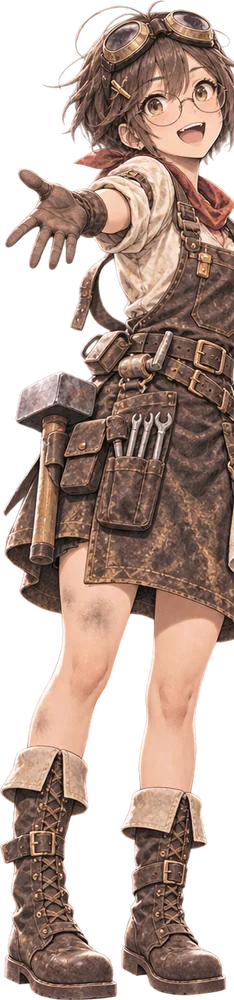
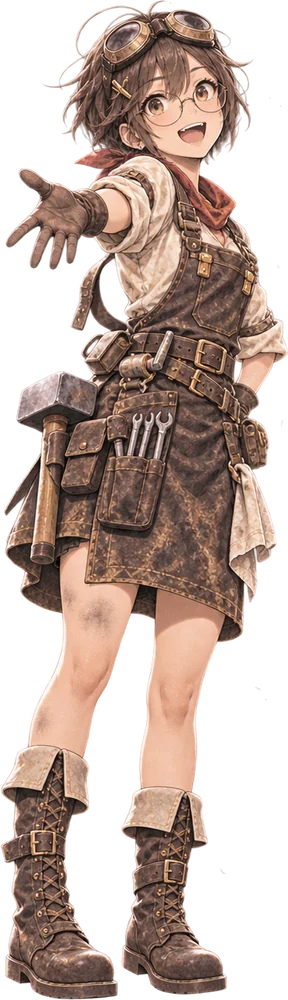
立ち絵の切り直し: 横の顔の列との境目で、腕やマントが切れていたのを直す（部品ごとに、立ち絵側と顔側から広げて分ける）
Claude-Session: https://claude.ai/code/session_01GdXuqYLq6i9zJrX2bZTVPh

diff --git a/sw.js b/sw.js
@@ -1,7 +1,7 @@
 // オフラインで遊べるようにする（2026-11-23）
 // 最初に開いたときに、音楽以外をまとめて保存。音楽は流したときに保存する
 // 版を上げると（VER）、新しいファイルに入れ替わる
-const VER = 'toh-18';
+const VER = 'toh-19';
 const CORE = ["./", "./assets/01_stone/ceil.png", "./assets/01_stone/chest.png", "./assets/01_stone/chest_gold.png", "./assets/01_stone/chest_gold_open.png", "./assets/01_stone/chest_open.png", "./assets/01_stone/deco_crack_l.png", "./assets/01_stone/deco_crack_s.png", "./assets/01_stone/deco_hole.png", "./assets/01_stone/deco_moss.png", "./assets/01_stone/deco_poster.png", "./assets/01_stone/deco_ring.png", "./assets/01_stone/deco_runes.png", "./assets/01_stone/deco_torch.png", "./assets/01_stone/deco_vine.png", "./assets/01_stone/door_bars.png", "./assets/01_stone/door_iron.png", "./assets/01_stone/door_wood.png", "./assets/01_stone/floor.png", "./assets/01_stone/stairs_down.png", "./assets/01_stone/stairs_up.png", "./assets/01_stone/wall.png", "./assets/event/ellie_a_0.webp", "./assets/event/ellie_a_1.webp", "./assets/event/ellie_a_2.webp", "./assets/event/ellie_a_3.webp", "./assets/event/ellie_b_0.webp", "./assets/event/ellie_b_1.webp", "./assets/event/ellie_b_2.webp", "./assets/event/ellie_b_3.webp", "./assets/event/fuuka_a_0.webp", "./assets/event/fuuka_a_1.webp", "./assets/event/fuuka_a_2.webp", "./assets/event/fuuka_a_3.webp", "./assets/event/fuuka_b_0.webp", "./assets/event/fuuka_b_1.webp", "./assets/event/fuuka_b_2.webp", "./assets/event/fuuka_b_3.webp", "./assets/event/fuuka_b_4.webp", "./assets/event/jenny_love_0.webp", "./assets/event/jenny_love_1.webp", "./assets/event/jenny_love_2.webp", "./assets/event/jenny_love_3.webp", "./assets/event/jenny_rain_0.webp", "./assets/event/jenny_rain_1.webp", "./assets/event/jenny_rain_2.webp", "./assets/event/jenny_rain_3.webp", "./assets/event/ria_a_0.webp", "./assets/event/ria_a_1.webp", "./assets/event/ria_a_2.webp", "./assets/event/ria_a_3.webp", "./assets/event/ria_b_0.webp", "./assets/event/ria_b_1.webp", "./assets/event/ria_b_2.webp", "./assets/event/ria_b_3.webp", "./assets/jobs/face_angry.png", "./assets/jobs/face_calm.png", "./assets/jobs/face_content.png", "./assets/jobs/face_doubt.png", "./assets/jobs/face_grin.png", "./assets/jobs/face_laugh.png", "./assets/jobs/face_lookup.png", "./assets/jobs/face_normal.png", "./assets/jobs/face_resolve.png", "./assets/jobs/face_sad.png", "./assets/jobs/face_serious.png", "./assets/jobs/face_shock.png", "./assets/jobs/face_shout.png", "./assets/jobs/face_sigh.png", "./assets/jobs/face_sly.png", "./assets/jobs/face_smile.png", "./assets/jobs/face_smug.png", "./assets/jobs/face_tired.png", "./assets/jobs/face_wince.png", "./assets/jobs/face_worry.png", "./assets/jobs/job_archer.webp", "./assets/jobs/job_archmage.webp", "./assets/jobs/job_assassin.webp", "./assets/jobs/job_bandit.webp", "./assets/jobs/job_berserker.webp", "./assets/jobs/job_blackknight.webp", "./assets/jobs/job_cleric.webp", "./assets/jobs/job_hunter.webp", "./assets/jobs/job_kengo.webp", "./assets/jobs/job_kensei.webp", "./assets/jobs/job_knight.webp", "./assets/jobs/job_magearcher.webp", "./assets/jobs/job_marauder.webp", "./assets/jobs/job_mastersmith.webp", "./assets/jobs/job_monk.webp", "./assets/jobs/job_ninja.webp", "./assets/jobs/job_paladin.webp", "./assets/jobs/job_sage.webp", "./assets/jobs/job_samurai.webp", "./assets/jobs/job_smith.webp", "./assets/jobs/job_spellsword.webp", "./assets/jobs/job_swordsman.webp", "./assets/jobs/job_thief.webp", "./assets/jobs/job_wizard.webp", "./assets/monsters/centipede_attack.png", "./assets/monsters/centipede_hit.png", "./assets/monsters/centipede_idle.png", "./assets/monsters/goblin_attack.png", "./assets/monsters/goblin_hit.png", "./assets/monsters/goblin_idle.png", "./assets/monsters/golem_attack.png", "./assets/monsters/golem_hit.png", "./assets/monsters/golem_idle.png", "./assets/monsters/rat_attack.png", "./assets/monsters/rat_hit.png", "./assets/monsters/rat_idle.png", "./assets/monsters/skeleton_attack.png", "./assets/monsters/skeleton_hit.png", "./assets/monsters/skeleton_idle.png", "./assets/npc/als.webp", "./assets/npc/als_00.png", "./assets/npc/als_01.png", "./assets/npc/als_02.png", "./assets/npc/als_03.png", "./assets/npc/als_04.png", "./assets/npc/als_05.png", "./assets/npc/als_06.png", "./assets/npc/als_07.png", "./assets/npc/als_08.png", "./assets/npc/als_09.png", "./assets/npc/als_10.png", "./assets/npc/als_11.png", "./assets/npc/als_12.png", "./assets/npc/als_13.png", "./assets/npc/als_14.png", "./assets/npc/als_15.png", "./assets/npc/als_16.png", "./assets/npc/als_17.png", "./assets/npc/apprentice.webp", "./assets/npc/apprentice_00.png", "./assets/npc/apprentice_01.png", "./assets/npc/apprentice_02.png", "./assets/npc/apprentice_03.png", "./assets/npc/apprentice_04.png", "./assets/npc/apprentice_05.png", "./assets/npc/apprentice_06.png", "./assets/npc/apprentice_07.png", "./assets/npc/apprentice_08.png", "./assets/npc/apprentice_09.png", "./assets/npc/apprentice_10.png", "./assets/npc/apprentice_11.png", "./assets/npc/apprentice_12.png", "./assets/npc/apprentice_13.png", "./assets/npc/apprentice_14.png", "./assets/npc/apprentice_15.png", "./assets/npc/apprentice_16.png", "./assets/npc/apprentice_17.png", "./assets/npc/apprentice_18.png", "./assets/npc/apprentice_19.png", "./assets/npc/apprentice_20.png", "./assets/npc/apprentice_21.png", "./assets/npc/bank.webp", "./assets/npc/bank_00.png", "./assets/npc/bank_01.png", "./assets/npc/bank_02.png", "./assets/npc/bank_03.png", "./assets/npc/bank_04.png", "./assets/npc/bank_05.png", "./assets/npc/bank_06.png", "./assets/npc/bank_07.png", "./assets/npc/bank_08.png", "./assets/npc/bank_09.png", "./assets/npc/bank_10.png", "./assets/npc/bank_11.png", "./assets/npc/bank_12.png", "./assets/npc/bank_13.png", "./assets/npc/bank_14.png", "./assets/npc/bar.webp", "./assets/npc/buppa_eat.png", "./assets/npc/buppa_eat.webp", "./assets/npc/buppa_grumpy.png", "./assets/npc/buppa_grumpy.webp", "./assets/npc/buppa_laugh.png", "./assets/npc/buppa_laugh.webp", "./assets/npc/buppa_shock.png", "./assets/npc/buppa_shock.webp", "./assets/npc/buppa_sleep.png", "./assets/npc/buppa_sleep.webp", "./assets/npc/buppa_tired.png", "./assets/npc/buppa_tired.webp", "./assets/npc/chicchi.webp", "./assets/npc/chicchi_00.png", "./assets/npc/chicchi_01.png", "./assets/npc/chicchi_02.png", "./assets/npc/chicchi_03.png", "./assets/npc/chicchi_04.png", "./assets/npc/chicchi_05.png", "./assets/npc/chicchi_06.png", "./assets/npc/chicchi_07.png", "./assets/npc/chicchi_08.png", "./assets/npc/chicchi_09.png", "./assets/npc/chicchi_10.png", "./assets/npc/chicchi_11.png", "./assets/npc/chicchi_12.png", "./assets/npc/chicchi_13.png", "./assets/npc/chicchi_14.png", "./assets/npc/chicchi_15.png", "./assets/npc/chicchi_16.png", "./assets/npc/chicchi_17.png", "./assets/npc/chicchi_18.png", "./assets/npc/chicchi_19.png", "./assets/npc/chicchi_20.png", "./assets/npc/chicchi_21.png", "./assets/npc/chicchi_22.png", "./assets/npc/chicchi_23.png", "./assets/npc/chicchi_24.png", "./assets/npc/clinic.webp", "./assets/npc/clinic_00.png", "./assets/npc/clinic_01.png", "./assets/npc/clinic_02.png", "./assets/npc/clinic_03.png", "./assets/npc/clinic_04.png", "./assets/npc/clinic_05.png", "./assets/npc/clinic_06.png", "./assets/npc/clinic_07.png", "./assets/npc/clinic_08.png", "./assets/npc/clinic_09.png", "./assets/npc/clinic_10.png", "./assets/npc/clinic_11.png", "./assets/npc/clinic_12.png", "./assets/npc/clinic_13.png", "./assets/npc/clinic_14.png", "./assets/npc/clinic_happy.png", "./assets/npc/clinic_laugh.png", "./assets/npc/clinic_shy.png", "./assets/npc/clinic_worried.png", "./assets/npc/craft.webp", "./assets/npc/craft_00.png", "./assets/npc/craft_01.png", "./assets/npc/craft_02.png", "./assets/npc/craft_03.png", "./assets/npc/craft_04.png", "./assets/npc/craft_05.png", "./assets/npc/craft_06.png", "./assets/npc/craft_07.png", "./assets/npc/craft_08.png", "./assets/npc/craft_09.png", "./assets/npc/craft_10.png", "./assets/npc/craft_11.png", "./assets/npc/craft_12.png", "./assets/npc/dan.webp", "./assets/npc/dan_00.png", "./assets/npc/dan_01.png", "./assets/npc/dan_02.png", "./assets/npc/dan_03.png", "./assets/npc/dan_04.png", "./assets/npc/dan_05.png", "./assets/npc/dan_06.png", "./assets/npc/dan_07.png", "./assets/npc/dan_08.png", "./assets/npc/dan_09.png", "./assets/npc/dan_10.png", "./assets/npc/dan_11.png", "./assets/npc/dan_12.png", "./assets/npc/dan_13.png", "./assets/npc/dan_14.png", "./assets/npc/dan_15.png", "./assets/npc/desert.webp", "./assets/npc/desert_00.png", "./assets/npc/desert_01.png", "./assets/npc/desert_02.png", "./assets/npc/desert_03.png", "./assets/npc/desert_04.png", "./assets/npc/desert_05.png", "./assets/npc/desert_06.png", "./assets/npc/desert_07.png", "./assets/npc/desert_08.png", "./assets/npc/desert_09.png", "./assets/npc/desert_10.png", "./assets/npc/desert_11.png", "./assets/npc/desert_12.png", "./assets/npc/desert_13.png", "./assets/npc/desert_14.png", "./assets/npc/desert_15.png", "./assets/npc/desert_16.png", "./assets/npc/desert_17.png", "./assets/npc/desert_18.png", "./assets/npc/desert_19.png", "./assets/npc/desert_20.png", "./assets/npc/desert_21.png", "./assets/npc/desert_22.png", "./assets/npc/desert_23.png", "./assets/npc/druid.webp", "./assets/npc/druid_00.png", "./assets/npc/druid_01.png", "./assets/npc/druid_02.png", "./assets/npc/druid_03.png", "./assets/npc/druid_04.png", "./assets/npc/druid_05.png", "./assets/npc/druid_06.png", "./assets/npc/druid_07.png", "./assets/npc/druid_08.png", "./assets/npc/druid_09.png", "./assets/npc/druid_10.png", "./assets/npc/druid_11.png", "./assets/npc/druid_12.png", "./assets/npc/druid_13.png", "./assets/npc/druid_14.png", "./assets/npc/druid_15.png", "./assets/npc/druid_16.png", "./assets/npc/druid_17.png", "./assets/npc/forest.webp", "./assets/npc/forest_00.png", "./assets/npc/forest_01.png", "./assets/npc/forest_02.png", "./assets/npc/forest_03.png", "./assets/npc/forest_04.png", "./assets/npc/forest_05.png", "./assets/npc/forest_06.png", "./assets/npc/forest_07.png", "./assets/npc/forest_08.png", "./assets/npc/forest_09.png", "./assets/npc/forest_10.png", "./assets/npc/forest_11.png", "./assets/npc/forest_12.png", "./assets/npc/forest_13.png", "./assets/npc/forest_14.png", "./assets/npc/forest_15.png", "./assets/npc/forest_16.png", "./assets/npc/forest_17.png", "./assets/npc/forest_18.png", "./assets/npc/forest_19.png", "./assets/npc/forest_20.png", "./assets/npc/forest_21.png", "./assets/npc/forest_22.png", "./assets/npc/fuuka.webp", "./assets/npc/fuuka_00.png", "./assets/npc/fuuka_01.png", "./assets/npc/fuuka_02.png", "./assets/npc/fuuka_03.png", "./assets/npc/fuuka_04.png", "./assets/npc/fuuka_05.png", "./assets/npc/fuuka_06.png", "./assets/npc/fuuka_07.png", "./assets/npc/fuuka_08.png", "./assets/npc/fuuka_09.png", "./assets/npc/fuuka_10.png", "./assets/npc/fuuka_11.png", "./assets/npc/fuuka_12.png", "./assets/npc/fuuka_13.png", "./assets/npc/fuuka_14.png", "./assets/npc/fuuka_15.png", "./assets/npc/fuuka_16.png", "./assets/npc/fuuka_17.png", "./assets/npc/fuuka_18.png", "./assets/npc/fuuka_laugh.png", "./assets/npc/fuuka_love.png", "./assets/npc/fuuka_pout.png", "./assets/npc/fuuka_shy.png", "./assets/npc/gaban.webp", "./assets/npc/gaban_00.png", "./assets/npc/gaban_01.png", "./assets/npc/gaban_02.png", "./assets/npc/gaban_03.png", "./assets/npc/gaban_04.png", "./assets/npc/gaban_05.png", "./assets/npc/gaban_06.png", "./assets/npc/gaban_07.png", "./assets/npc/gaban_08.png", "./assets/npc/gaban_09.png", "./assets/npc/gaban_10.png", "./assets/npc/gaban_11.png", "./assets/npc/gaban_12.png", "./assets/npc/gaban_13.png", "./assets/npc/gaban_14.png", "./assets/npc/gaban_15.png", "./assets/npc/gaban_16.png", "./assets/npc/gaban_17.png", "./assets/npc/guild.webp", "./assets/npc/guild_00.png", "./assets/npc/guild_01.png", "./assets/npc/guild_02.png", "./assets/npc/guild_03.png", "./assets/npc/guild_04.png", "./assets/npc/guild_05.png", "./assets/npc/guild_06.png", "./assets/npc/guild_07.png", "./assets/npc/guild_08.png", "./assets/npc/guild_09.png", "./assets/npc/guild_10.png", "./assets/npc/guild_11.png", "./assets/npc/guild_12.png", "./assets/npc/guild_13.png", "./assets/npc/guild_14.png", "./assets/npc/guild_happy.png", "./assets/npc/guild_laugh.png", "./assets/npc/guild_shy.png", "./assets/npc/guild_worried.png", "./assets/npc/gurugamo.webp", "./assets/npc/gurugamo_00.png", "./assets/npc/gurugamo_01.png", "./assets/npc/gurugamo_02.png", "./assets/npc/gurugamo_03.png", "./assets/npc/gurugamo_04.png", "./assets/npc/gurugamo_05.png", "./assets/npc/gurugamo_06.png", "./assets/npc/gurugamo_07.png", "./assets/npc/gurugamo_08.png", "./assets/npc/gurugamo_09.png", "./assets/npc/gurugamo_10.png", "./assets/npc/gurugamo_11.png", "./assets/npc/gurugamo_12.png", "./assets/npc/gurugamo_13.png", "./assets/npc/gurugamo_14.png", "./assets/npc/gurugamo_15.png", "./assets/npc/ice.webp", "./assets/npc/ice_00.png", "./assets/npc/ice_01.png", "./assets/npc/ice_02.png", "./assets/npc/ice_03.png", "./assets/npc/ice_04.png", "./assets/npc/ice_05.png", "./assets/npc/ice_06.png", "./assets/npc/ice_07.png", "./assets/npc/ice_08.png", "./assets/npc/ice_09.png", "./assets/npc/ice_10.png", "./assets/npc/ice_11.png", "./assets/npc/ice_12.png", "./assets/npc/ice_13.png", "./assets/npc/ice_14.png", "./assets/npc/ice_15.png", "./assets/npc/ice_16.png", "./assets/npc/ice_17.png", "./assets/npc/ice_18.png", "./assets/npc/ice_19.png", "./assets/npc/ice_20.png", "./assets/npc/ice_21.png", "./assets/npc/ice_22.png", "./assets/npc/ice_23.png", "./assets/npc/inn.webp", "./assets/npc/inn_00.png", "./assets/npc/inn_01.png", "./assets/npc/inn_02.png", "./assets/npc/inn_03.png", "./assets/npc/inn_04.png", "./assets/npc/inn_05.png", "./assets/npc/inn_06.png", "./assets/npc/inn_07.png", "./assets/npc/inn_08.png", "./assets/npc/inn_09.png", "./assets/npc/inn_10.png", "./assets/npc/inn_11.png", "./assets/npc/inn_12.png", "./assets/npc/inn_13.png", "./assets/npc/inn_14.png", "./assets/npc/item.webp", "./assets/npc/item_00.png", "./assets/npc/item_01.png", "./assets/npc/item_02.png", "./assets/npc/item_03.png", "./assets/npc/item_04.png", "./assets/npc/item_05.png", "./assets/npc/item_06.png", "./assets/npc/item_07.png", "./assets/npc/item_08.png", "./assets/npc/item_09.png", "./assets/npc/item_10.png", "./assets/npc/item_11.png", "./assets/npc/item_12.png", "./assets/npc/item_13.png", "./assets/npc/item_14.png", "./assets/npc/jin.webp", "./assets/npc/jin_00.png", "./assets/npc/jin_01.png", "./assets/npc/jin_02.png", "./assets/npc/jin_03.png", "./assets/npc/jin_04.png", "./assets/npc/jin_05.png", "./assets/npc/jin_06.png", "./assets/npc/jin_07.png", "./assets/npc/jin_08.png", "./assets/npc/jin_09.png", "./assets/npc/jin_10.png", "./assets/npc/jin_11.png", "./assets/npc/jin_12.png", "./assets/npc/jin_13.png", "./assets/npc/jin_14.png", "./assets/npc/jin_15.png", "./assets/npc/jin_16.png", "./assets/npc/king.webp", "./assets/npc/king_00.png", "./assets/npc/king_01.png", "./assets/npc/king_02.png", "./assets/npc/king_03.png", "./assets/npc/king_04.png", "./assets/npc/king_05.png", "./assets/npc/king_06.png", "./assets/npc/king_07.png", "./assets/npc/king_08.png", "./assets/npc/king_09.png", "./assets/npc/king_10.png", "./assets/npc/king_11.png", "./assets/npc/king_12.png", "./assets/npc/king_13.png", "./assets/npc/king_14.png", "./assets/npc/king_15.png", "./assets/npc/king_16.png", "./assets/npc/king_17.png", "./assets/npc/minister.webp", "./assets/npc/minister_00.png", "./assets/npc/minister_01.png", "./assets/npc/minister_02.png", "./assets/npc/minister_03.png", "./assets/npc/minister_04.png", "./assets/npc/minister_05.png", "./assets/npc/minister_06.png", "./assets/npc/minister_07.png", "./assets/npc/minister_08.png", "./assets/npc/minister_09.png", "./assets/npc/minister_10.png", "./assets/npc/minister_11.png", "./assets/npc/minister_12.png", "./assets/npc/minister_13.png", "./assets/npc/minister_14.png", "./assets/npc/minister_15.png", "./assets/npc/minister_16.png", "./assets/npc/minister_17.png", "./assets/npc/mountain.webp", "./assets/npc/mountain_00.png", "./assets/npc/mountain_01.png", "./assets/npc/mountain_02.png", "./assets/npc/mountain_03.png", "./assets/npc/mountain_04.png", "./assets/npc/mountain_05.png", "./assets/npc/mountain_06.png", "./assets/npc/mountain_07.png", "./assets/npc/mountain_08.png", "./assets/npc/mountain_09.png", "./assets/npc/mountain_10.png", "./assets/npc/mountain_11.png", "./assets/npc/mountain_12.png", "./assets/npc/mountain_13.png", "./assets/npc/mountain_14.png", "./assets/npc/mountain_15.png", "./assets/npc/mountain_bust_arms.webp", "./assets/npc/mountain_bust_crystal.webp", "./assets/npc/mountain_bust_pray.webp", "./assets/npc/mountain_bust_reach.webp", "./assets/npc/weapon.webp", "./assets/npc/weapon_00.png", "./assets/npc/weapon_01.png", "./assets/npc/weapon_02.png", "./assets/npc/weapon_03.png", "./assets/npc/weapon_04.png", "./assets/npc/weapon_05.png", "./assets/npc/weapon_06.png", "./assets/npc/weapon_07.png", "./assets/npc/weapon_08.png", "./assets/npc/weapon_09.png", "./assets/npc/weapon_10.png", "./assets/npc/weapon_11.png", "./assets/npc/weapon_12.png", "./assets/npc/weapon_13.png", "./assets/npc/weapon_14.png", "./assets/npc/weapon_happy.png", "./assets/npc/weapon_happy.webp", "./assets/npc/weapon_inlove.png", "./assets/npc/weapon_inlove.webp", "./assets/npc/weapon_shy.png", "./assets/npc/weapon_shy.webp", "./assets/npc/weapon_worried.png", "./assets/npc/weapon_worried.webp", "./assets/sfx/amb_birds.mp3", "./assets/sfx/amb_blizzard.mp3", "./assets/sfx/amb_sewer.mp3", "./assets/sfx/amb_town.mp3", "./assets/sfx/arrow.mp3", "./assets/sfx/bite.mp3", "./assets/sfx/bossstep.mp3", "./assets/sfx/buff.mp3", "./assets/sfx/chest.mp3", "./assets/sfx/cooking.mp3", "./assets/sfx/cry_beast.mp3", "./assets/sfx/cry_golem.mp3", "./assets/sfx/cry_skeleton.mp3", "./assets/sfx/dark.mp3", "./assets/sfx/dash.mp3", "./assets/sfx/dishes.mp3", "./assets/sfx/door.mp3", "./assets/sfx/equip.mp3", "./assets/sfx/explosion.mp3", "./assets/sfx/fall.mp3", "./assets/sfx/fire1.mp3", "./assets/sfx/fire3.mp3", "./assets/sfx/firewind.mp3", "./assets/sfx/goblin.mp3", "./assets/sfx/heal.mp3", "./assets/sfx/heal1.mp3", "./assets/sfx/heal3.mp3", "./assets/sfx/heavy.mp3", "./assets/sfx/hit.mp3", "./assets/sfx/hit1.mp3", "./assets/sfx/holy.mp3", "./assets/sfx/ice.mp3", "./assets/sfx/ice2.mp3", "./assets/sfx/icefreeze.mp3", "./assets/sfx/item.mp3", "./assets/sfx/katana.mp3", "./assets/sfx/ko.mp3", "./assets/sfx/levelup.mp3", "./assets/sfx/magic.mp3", "./assets/sfx/miss.mp3", "./assets/sfx/page.mp3", "./assets/sfx/poison1.mp3", "./assets/sfx/poison2.mp3", "./assets/sfx/punch.mp3", "./assets/sfx/register.mp3", "./assets/sfx/rockbreak.mp3", "./assets/sfx/select.mp3", "./assets/sfx/shock1.mp3", "./assets/sfx/shock2.mp3", "./assets/sfx/slash.mp3", "./assets/sfx/stairs.mp3", "./assets/sfx/step_bush_1.mp3", "./assets/sfx/step_bush_2.mp3", "./assets/sfx/step_bush_3.mp3", "./assets/sfx/step_dirt_1.mp3", "./assets/sfx/step_dirt_2.mp3", "./assets/sfx/step_dirt_3.mp3", "./assets/sfx/step_grass_1.mp3", "./assets/sfx/step_grass_2.mp3", "./assets/sfx/step_grass_3.mp3", "./assets/sfx/step_sand_1.mp3", "./assets/sfx/step_sand_2.mp3", "./assets/sfx/step_sand_3.mp3", "./assets/sfx/step_snow_1.mp3", "./assets/sfx/step_snow_2.mp3", "./assets/sfx/step_snow_3.mp3", "./assets/sfx/step_stone_1.mp3", "./assets/sfx/step_stone_2.mp3", "./assets/sfx/step_stone_3.mp3", "./assets/sfx/step_wet_1.mp3", "./assets/sfx/step_wet_2.mp3", "./assets/sfx/step_wet_3.mp3", "./assets/sfx/swing.mp3", "./assets/sfx/thunder.mp3", "./assets/sfx/thunder3.mp3", "./assets/sfx/walk_town.mp3", "./assets/sfx/win.mp3", "./assets/town/bank_in.jpg", "./assets/town/bank_out.png", "./assets/town/castle_in.jpg", "./assets/town/castle_out.jpg", "./assets/town/clinic_in.jpg", "./assets/town/clinic_out.png", "./assets/town/gstatue_desert.png", "./assets/town/gstatue_forest.png", "./assets/town/gstatue_ice.png", "./assets/town/gstatue_mountain.png", "./assets/town/guild_in.jpg", "./assets/town/guild_out.png", "./assets/town/home_in.jpg", "./assets/town/home_out.png", "./assets/town/inn_in.jpg", "./assets/town/inn_out.png", "./assets/town/intro_tower.jpg", "./assets/town/item_in.jpg", "./assets/town/item_out.png", "./assets/town/map.jpg", "./assets/town/statue.jpg", "./assets/town/title.jpg", "./assets/town/tower.jpg", "./assets/town/town_view.jpg", "./assets/town/weapon_in.jpg", "./assets/town/weapon_out.png", "./icon-180.png", "./icon-192.png", "./icon-512.png", "./index.html", "./js/assets.js", "./js/data.js", "./js/engine.js", "./js/events.js", "./js/fx.js", "./js/game.js", "./js/props.js", "./js/sound.js", "./manifest.webmanifest"];
 self.addEventListener('install', e => { e.waitUntil(caches.open(VER).then(c => Promise.all(CORE.map(u => fetch(u, { cache: 'reload' }).then(r => r.ok && c.put(u, r)).catch(() => {})))).then(() => self.skipWaiting())); });
 self.addEventListener('activate', e => { e.waitUntil(caches.keys().then(ks => Promise.all(ks.filter(k => k !== VER).map(k => caches.delete(k)))).then(() => self.clients.claim())); });
